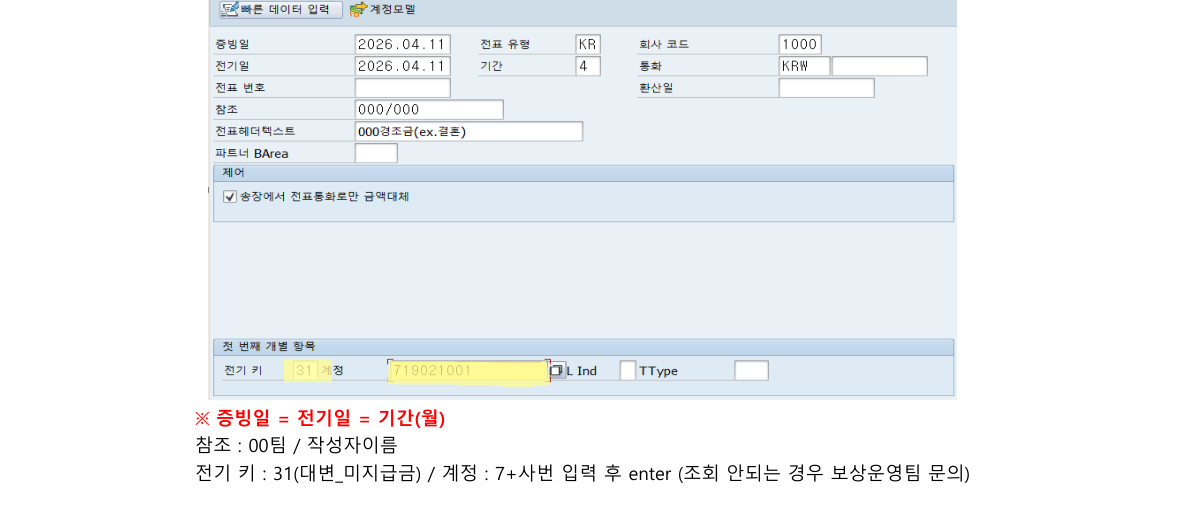
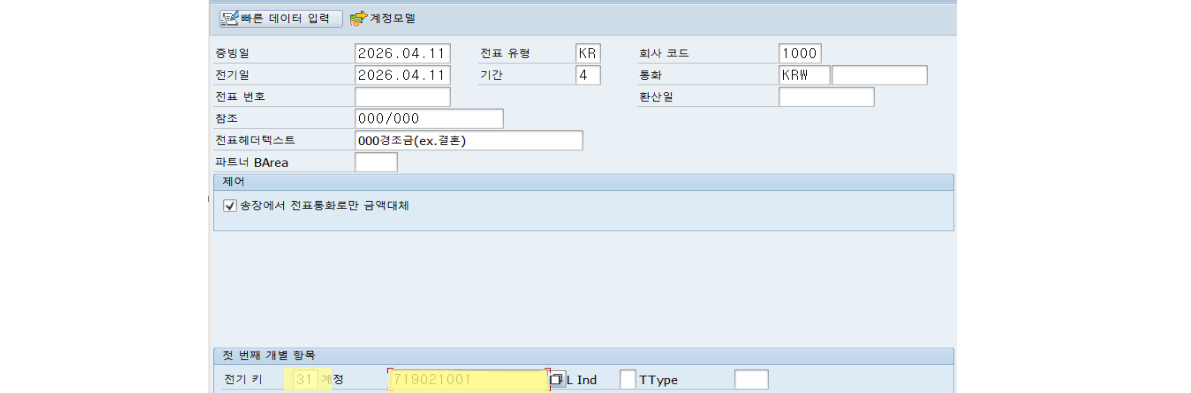
경조사비: SAP 화면만 추출(어노테이션 제거), STEP3 계정코드 표 추가

diff --git a/_pages/06-경조사비.md b/_pages/06-경조사비.md
@@ -69,11 +69,36 @@ layout: post
 
 <div style="background:#f7f9fb; border:1px solid #eceef1; border-radius:10px; padding:16px 20px; margin-bottom:10px; font-size:0.93em; color:#333;">
   <ul style="margin:0; padding-left:1.4em; line-height:2;">
-    <li>전기키 <strong>40</strong> / 계정 : <strong>50020901</strong> &nbsp;<span style="color:#888; font-size:0.9em;">((한)경조사비)</span></li>
+    <li>전기키 <strong>40</strong> / 계정 : 본인 부서에 맞는 <strong>경조사비 계정코드</strong> 입력</li>
     <li>금액 : 경조사비 <strong>지급 금액</strong></li>
     <li>코스트센터 : <strong>자기 부서에 맞는 코스트센터</strong> 입력</li>
     <li>텍스트 : <strong>(한)경조사비</strong></li>
   </ul>
+  <div style="margin-top:12px; overflow-x:auto; border-radius:8px;">
+  <table style="width:100%; border-collapse:collapse; font-size:0.9em;">
+    <thead>
+      <tr style="background:#4a6a8a; color:#fff;">
+        <th style="padding:7px 12px; text-align:center;">구분</th>
+        <th style="padding:7px 12px; text-align:center;">연제</th>
+        <th style="padding:7px 12px; text-align:center;">연판</th>
+        <th style="padding:7px 12px; text-align:center;">제</th>
+        <th style="padding:7px 12px; text-align:center;">판</th>
+      </tr>
+    </thead>
+    <tbody>
+      <tr style="background:#f0f5fa; text-align:center;">
+        <td style="padding:7px 12px; font-weight:600;">경조사비</td>
+        <td style="padding:7px 12px;">75060210</td>
+        <td style="padding:7px 12px;">50060210</td>
+        <td style="padding:7px 12px;">75020901</td>
+        <td style="padding:7px 12px;">50020901</td>
+      </tr>
+    </tbody>
+  </table>
+  </div>
+  <div style="margin-top:10px; text-align:right;">
+    <a href="{{ site.baseurl }}/pages/08-비용계정안내/" style="font-size:0.85em; color:#4a6a8a; text-decoration:none; font-weight:600;">📋 전체 비용계정 안내 →</a>
+  </div>
 </div>
 
 <div style="text-align:center;">
